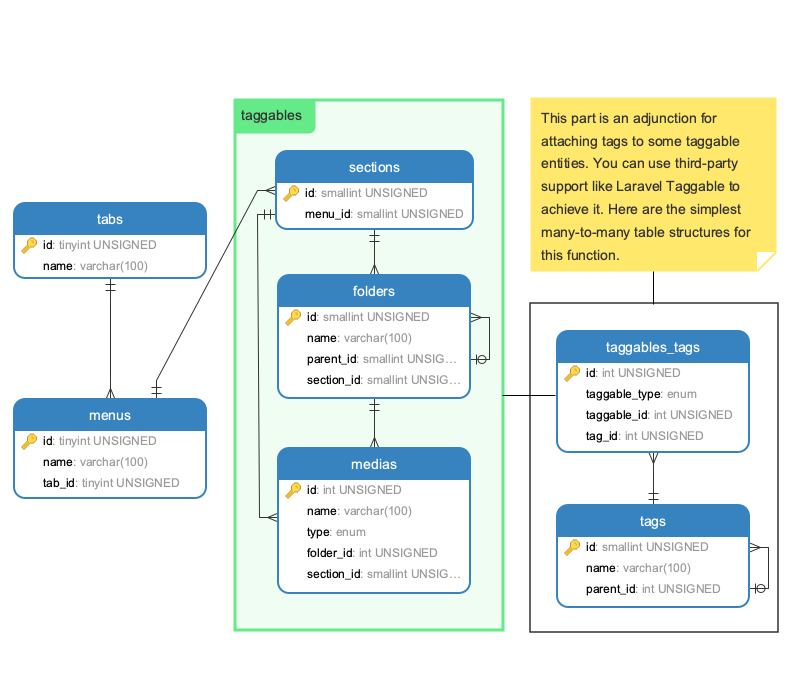
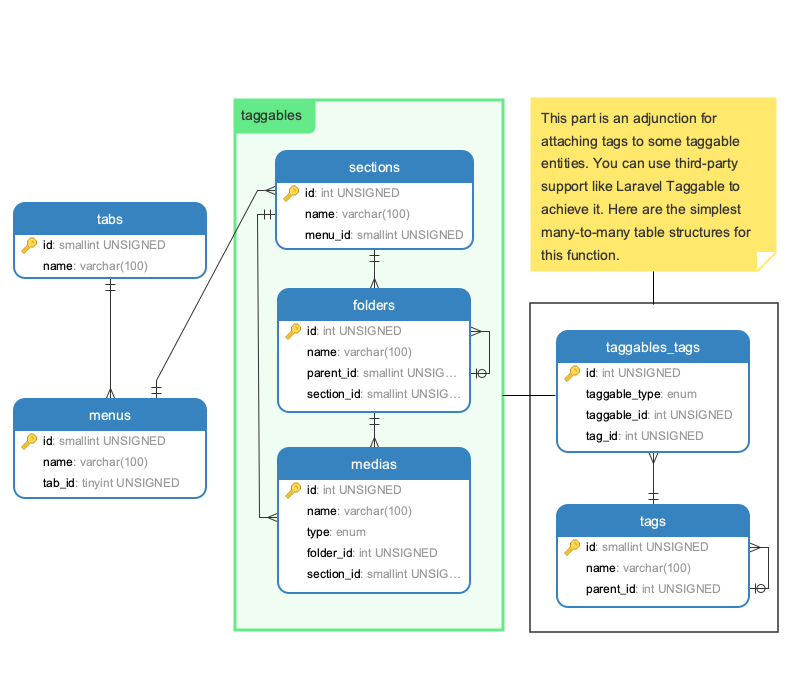
refactor(migrations): fill up database migrations and update er graph in docs

diff --git a/database/migrations/2020_11_12_083357_create_media_table.php b/database/migrations/2020_11_12_083357_create_media_table.php
@@ -15,7 +15,15 @@ class CreateMediaTable extends Migration
     {
         Schema::create('media', function (Blueprint $table) {
             $table->id();
+            $table->string('name', 100);
+            $table->set('type', ['text', 'picture', 'video', 'other']);
+            $table->foreignId('folder_id')->constrained('folders')->onDelete('cascade');
+            $table->foreignId('section_id')->constrained('sections')->onDelete('cascade');
             $table->timestamps();
+
+            // create indexes
+            $table->index(['folder_id']);
+            $table->index(['section_id', 'folder_id']);
         });
     }
 
@@ -26,6 +34,14 @@ class CreateMediaTable extends Migration
      */
     public function down()
     {
-        Schema::dropIfExists('media');
+        Schema::dropIfExists('media', function (Blueprint $table) {
+            // drop foreign references
+            $table->dropForeign(['folder_id']);
+            $table->dropForeign(['section_id']);
+
+            // drop indexess
+            $table->dropIndex(['folder_id']);
+            $table->dropIndex(['section_id', 'folder_id']);
+        });
     }
 }

diff --git a/database/migrations/2020_11_12_083345_create_folders_table.php b/database/migrations/2020_11_12_083345_create_folders_table.php
@@ -15,7 +15,15 @@ class CreateFoldersTable extends Migration
     {
         Schema::create('folders', function (Blueprint $table) {
             $table->id();
+            $table->string('name', 100);
+            $table->foreignId('parent_id')->constrained('folders')->onDelete('cascade');
+            $table->foreignId('section_id')->constrained()->onDelete('cascade');
             $table->timestamps();
+
+
+            // create indexes
+            $table->index(['parent_id', 'name']);
+            $table->index(['section_id', 'parent_id']);
         });
     }
 
@@ -26,6 +34,14 @@ class CreateFoldersTable extends Migration
      */
     public function down()
     {
-        Schema::dropIfExists('folders');
+        Schema::dropIfExists('folders', function (Blueprint $table) {
+            // drop foreign references
+            $table->dropForeign('folders_parent_id_foreign');
+            $table->dropForeign(['section_id']);
+
+            // drop indexes
+            $table->dropIndex(['parent_id', 'name']);
+            $table->dropIndex(['section_id', 'parent_id']);
+        });
     }
 }

diff --git a/database/migrations/2020_11_12_083317_create_menus_table.php b/database/migrations/2020_11_12_083317_create_menus_table.php
@@ -14,8 +14,15 @@ class CreateMenusTable extends Migration
     public function up()
     {
         Schema::create('menus', function (Blueprint $table) {
-            $table->id();
-            $table->timestamps();
+            $table->smallIncrements('id');
+            $table->string('name', 100);
+            $table->unsignedSmallInteger('tab_id');
+
+            // define foreign references
+            $table->foreign('tab_id')->references('id')->on('tabs')->constrained()->onDelete('cascade');
+
+            // create indexes
+            $table->index(['tab_id', 'name']);
         });
     }
 
@@ -26,6 +33,12 @@ class CreateMenusTable extends Migration
      */
     public function down()
     {
-        Schema::dropIfExists('menus');
+        Schema::dropIfExists('menus', function (Blueprint $table) {
+            // drop foreign references
+            $table->dropForeign(['tab_id']);
+
+            // drop indexes
+            $table->dropIndex(['tab_id', 'name']);
+        });
     }
 }

diff --git a/database/migrations/2020_11_12_083327_create_sections_table.php b/database/migrations/2020_11_12_083327_create_sections_table.php
@@ -15,7 +15,15 @@ class CreateSectionsTable extends Migration
     {
         Schema::create('sections', function (Blueprint $table) {
             $table->id();
+            $table->string('name', 100);
+            $table->unsignedSmallInteger('menu_id');
             $table->timestamps();
+
+            // define foreign references
+            $table->foreign('menu_id')->references('id')->on('menus')->constrained()->onDelete('cascade');
+
+            // create indexes
+            $table->index(['menu_id', 'name']);
         });
     }
 
@@ -26,6 +34,12 @@ class CreateSectionsTable extends Migration
      */
     public function down()
     {
-        Schema::dropIfExists('sections');
+        Schema::dropIfExists('sections', function (Blueprint $table) {
+            // drop foreign references
+            $table->dropForeign(['menu_id']);
+
+            // drop indexes
+            $table->dropIndex(['menu_id', 'name']);
+        });
     }
 }

diff --git a/database/migrations/2020_11_12_083148_create_tabs_table.php b/database/migrations/2020_11_12_083148_create_tabs_table.php
@@ -14,8 +14,11 @@ class CreateTabsTable extends Migration
     public function up()
     {
         Schema::create('tabs', function (Blueprint $table) {
-            $table->id();
-            $table->timestamps();
+            $table->smallIncrements('id');
+            $table->string('name', 100);
+
+            // create indexes
+            $table->unique('name');
         });
     }
 
@@ -26,6 +29,9 @@ class CreateTabsTable extends Migration
      */
     public function down()
     {
-        Schema::dropIfExists('tabs');
+        Schema::dropIfExists('tabs', function (Blueprint $table) {
+            // drop indexes
+            $table->dropUnique('tabs_name_unique');
+        });
     }
 }
